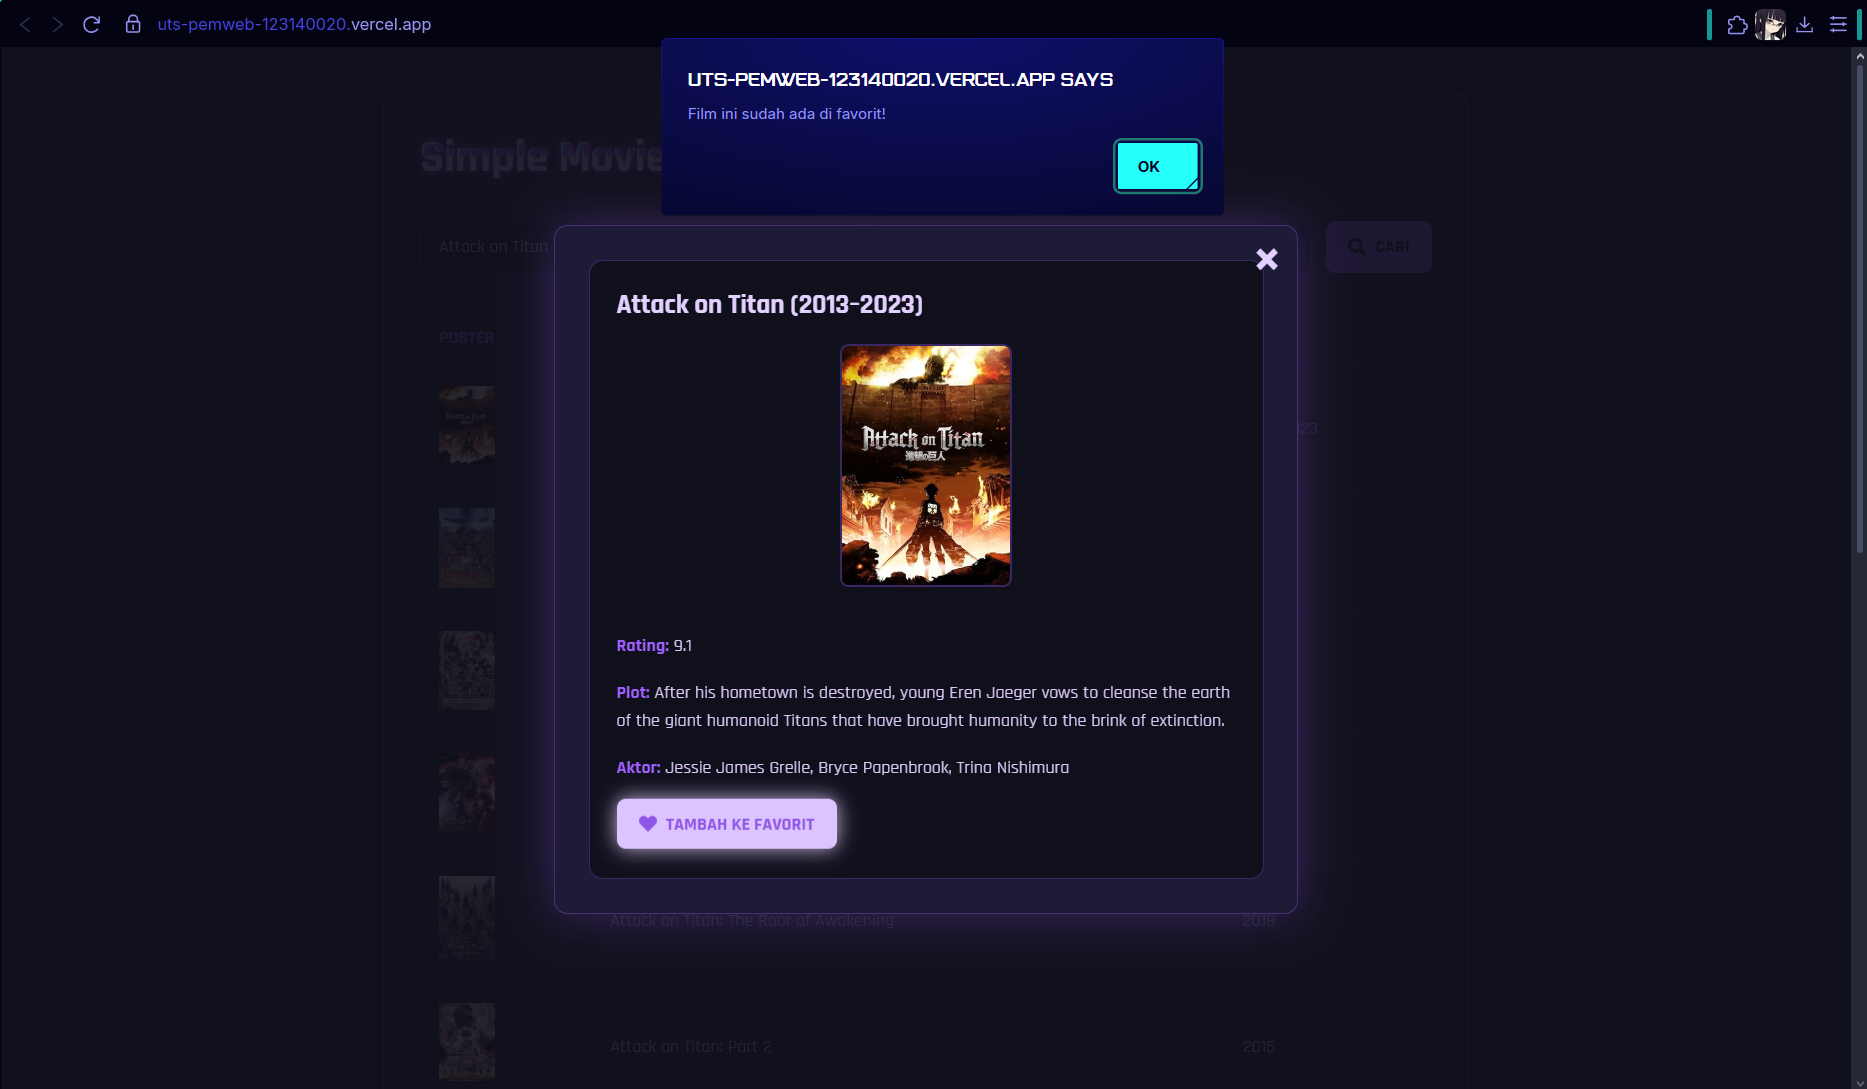
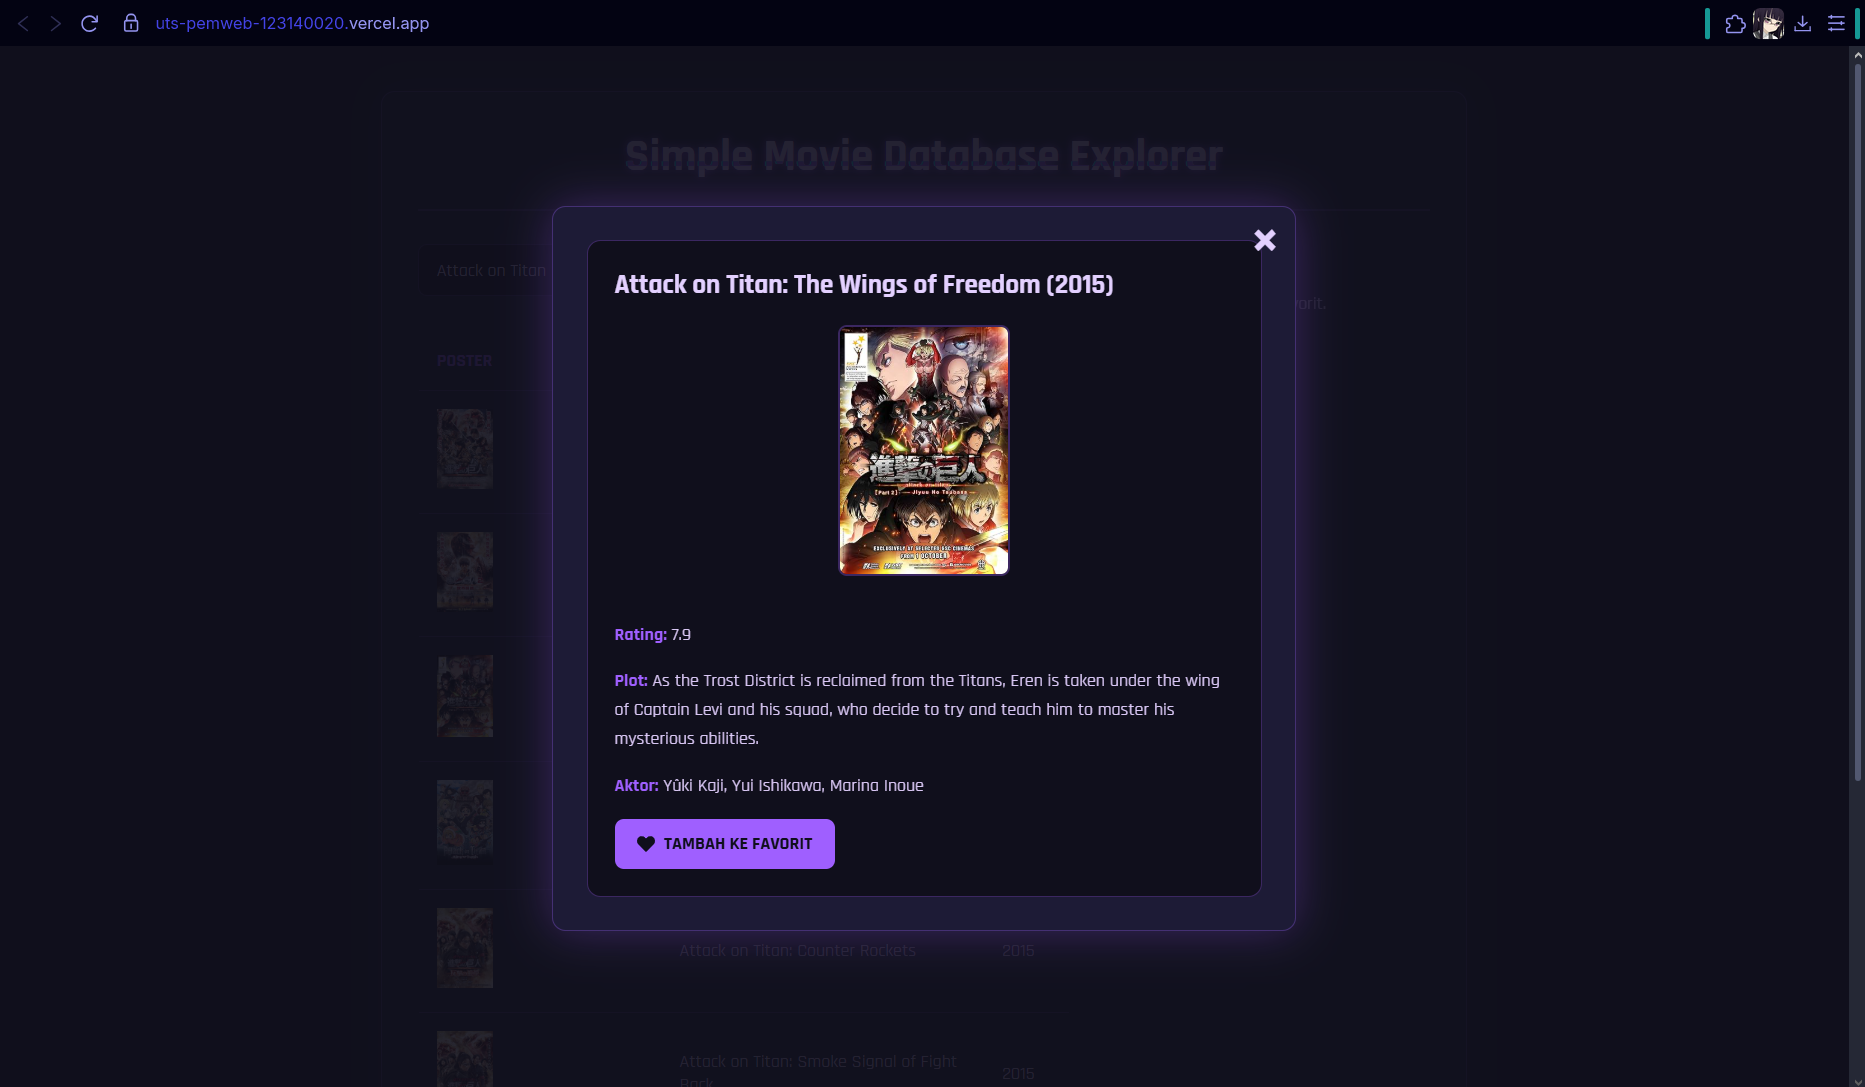
Merubah screenshot README.md sesuai perubahan UI sebelumnya, dan merapikan kode Modal.css

diff --git a/src/components/Modal.css b/src/components/Modal.css
@@ -37,7 +37,6 @@
   padding: 0;
   line-height: 1;
 
-  /* Hapus style tombol default */
   text-transform: none;
   font-family: Arial, sans-serif;
   transition: color 0.2s ease;

diff --git a/README.md b/README.md
@@ -35,15 +35,25 @@ Aplikasi dapat diakses di: [https://uts-pemweb-123140020.vercel.app]
 ![Screenshot Desktop 2](./desktop2.png)
 3. Detail Card / Modal Hasil Pencarian dan Tambah ke Favorit
 ![Screenshot Desktop 3](./desktop3.png)
-4. Setelah di Tambahkan ke Favorit dan disimpan ke Localstorage (Dapat di Remove)
+4. Setelah di Tambahkan ke Favorit dan disimpan ke Localstorage 
 ![Screenshot Desktop 4](./desktop4.png)
+5. Setelah di Tambahkan ke Favorit, Film dapat diremove dan ada Konfirmasi untuk Remove
+![Screenshot Desktop 5](./desktop5.png)
+6. Detail Card / Modal dapat dibuka dari Favoritelist dan dapat di Remove dari FavoriteList
+![Screenshot Desktop 6](./desktop6.png)
 
 ### Screenshot Mobile
 1. Halaman Utama Movie Database Exploler versi Mobile
 ![Screenshot Mobile 1](./mobile1.jpg)
-2. Hasil Pencarian Kimetsu no Yaiba dengan Tahun 2021
+2. Hasil Pencarian Demon Slayer dengan Tahun 2021
 ![Screenshot Mobile 2](./mobile2.jpg)
-3. Detail Card / Modal Hasil Pencarian dan Tambah ke Favorit
+3. Detail Card / Modal Hasil Pencarian
 ![Screenshot Mobile 3](./mobile3.jpg)
-4. Setelah di Tambahkan ke Favorit dan disimpan ke Localstorage (Dapat di Remove)
+4. Film ditambahkan ke Favorit dan disimpan ke Localstorage (Dapat di Remove)
 ![Screenshot Mobile 4](./mobile4.jpg)
+5. Film yang telah ditambahkan ke Listfavorite dapat di Remove dan Harus dikonfirmasi Terlebih Dahulu
+![Screenshot Mobile 5](./mobile5.jpg)
+6. Film yang telah ditambahkan ke Listfavorite Berada dipaling Bawah untuk versi Mobile
+![Screenshot Mobile 6](./mobile6.jpg)
+7. Film dapat di Remove dari ListFavorite dan Harus dikonfirmasi Terlebih Dahulu
+![Screenshot Mobile 7](./mobile7.jpg)
